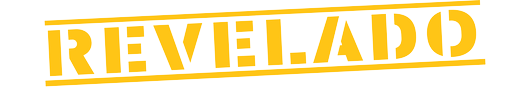
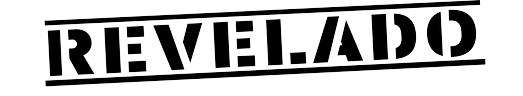
Add files via upload

Changed region(s): [[0.0612, 0.0, 0.9484, 0.9062]]

diff --git a/index.html b/index.html
@@ -17,9 +17,9 @@
     
     <style type="text/css">
       header {
-        color: white;
+        color: black;
         background-image: url("assets/img/bg.jpeg");
-        background-color: rgba(0, 0, 0, 0.6);
+        background-color: rgba(0, 0, 0, 0);
         background-position: center;
         background-size: cover;
         background-attachment: fixed;
@@ -37,19 +37,26 @@
       t.src=v;s=b.getElementsByTagName(e)[0];
       s.parentNode.insertBefore(t,s)}(window, document,'script',
       'https://connect.facebook.net/en_US/fbevents.js');
-      fbq('init', '638228847268637');
-      fbq('init', '1221934508338250');
+      fbq('init', '526414415897813');
       fbq('track', 'PageView');
     </script>
     <noscript><img height="1" width="1" style="display:none"
-      src="https://www.facebook.com/tr?id=638228847268637&ev=PageView&noscript=1"
-      src="https://www.facebook.com/tr?id=1221934508338250&ev=PageView&noscript=1"
+      src="https://www.facebook.com/tr?id=526414415897813&ev=PageView&noscript=1"
     /></noscript>
     <!-- End Meta Pixel Code -->
     
   </head>
   <body>
-    
+    <style>
+      .pessoinhas {
+        padding: 8px;
+        color: #183940;
+        background-color: #d2d904;
+      }
+      </style>
+      <div class="pessoinhas">
+<center> <span style=""><b>Recomendado a mulheres com mais de 30 anos que estão <u>com mais de 5kg acima do peso</u>!</b></center></span>
+</div>
     <header class="py-4">
       <div class="container">
         <div class="row justify-content-center">
@@ -58,7 +65,7 @@
             <img class="img-fluid" src="./assets/img/revelado.png">
 
             <!-- Headline -->
-            <h3 class="my-4"><b> <span style="color: #FFC516;">SEGREDO</span> PARA SECAR A BANHA NAS PRIMEIRAS 2 SEMANAS</b></h3>
+           <h3 class="my-4"><b> <span style="color: #FF1616;">VITAMINA OCULTA</span> QUE PERMITE MULHERES COMUNS PERDEREM ATÉ 15KG EM 21 DIAS</b></h3>
 
             <!-- VSL -->
             <script type="text/javascript" id="scr_626030fcb20f2800085e6014">var s=document.createElement("script");s.src="https://cdn.converteai.net/1812ece4-6f0d-4a9b-bb29-f0974ded221f/players/626030fcb20f2800085e6014/player.js",s.async=!0,document.head.appendChild(s);</script>
@@ -125,7 +132,7 @@
                       </td>
                     </tr>
                     <tr>
-                      <td class="fb-comments-comment-text">Ele também me ajudou perdi 22 kls obrigado, e ajuda até hoje com essas receitas deliciosas</td>
+                      <td class="fb-comments-comment-text">Ele também me ajudou perdi 22kg obrigado, e ajuda até hoje com essas receitas deliciosas</td>
                     </tr>
                     <tr>
                       <td class="fb-comments-comment-actions">
@@ -154,7 +161,7 @@
                       </td>
                     </tr>
                     <tr>
-                      <td class="fb-comments-comment-text">Esse vídeo mudou minha vida, já são 20 kls a menos em 4 meses ,agradecida</td>
+                      <td class="fb-comments-comment-text">Esse vídeo mudou minha vida, já são 20kg a menos em 4 meses ,agradecida</td>
                     </tr>
                     <tr>
                       <td class="fb-comments-comment-actions">
@@ -183,7 +190,7 @@
                       </td>
                     </tr>
                     <tr>
-                      <td class="fb-comments-comment-text">Tomei essa vitamina durante 1 mês, perdir 5 kls, e me sentia bem melhor, faz um ano, agora vou voltar a tomar novamente.</td>
+                      <td class="fb-comments-comment-text">Tomei essa vitamina durante 1 mês, perdir 5kg, e me sentia bem melhor, faz um ano, agora vou voltar a tomar novamente.</td>
                     </tr>
                     <tr>
                       <td class="fb-comments-comment-actions">
@@ -212,7 +219,7 @@
                       </td>
                     </tr>
                     <tr>
-                      <td class="fb-comments-comment-text">Estou feliz, a 7 meses atrás eu estava com 78 kls e hoje estou com 54 kls até postei a respeito no meu perfil aqui no face o antes e depois 😘😘😘</td>
+                      <td class="fb-comments-comment-text">Estou feliz, a 7 meses atrás eu estava com 78kg e hoje estou com 54kg até postei a respeito no meu perfil aqui no face o antes e depois 😘😘😘</td>
                     </tr>
                     <tr>
                       <td class="fb-comments-comment-actions">
@@ -303,7 +310,7 @@
                         </td>
                       </tr>
                       <tr>
-                        <td class="fb-comments-comment-text">Maravilhosa melhor de todas fez 7dias tomando e 7 klos já conseguir eliminar tô muito feliz obrigado 😍😍😍</td>
+                        <td class="fb-comments-comment-text">Maravilhosa melhor de todas fez 7dias tomando e 7kg já conseguir eliminar tô muito feliz obrigado 😍😍😍</td>
                       </tr>
                       <tr>
                         <td class="fb-comments-comment-actions">
@@ -333,7 +340,7 @@
                         </td>
                       </tr>
                       <tr>
-                        <td class="fb-comments-comment-text">Eu já estou tomando, já eliminei 7 kls, já fez muita diferença, minhas roupas estavam todas apertadas,  ágora já estão largas... 🙏🙏🙏🙏🙏🙏</td>
+                        <td class="fb-comments-comment-text">Eu já estou tomando, já eliminei 7kg, já fez muita diferença, minhas roupas estavam todas apertadas,  ágora já estão largas... 🙏🙏🙏🙏🙏🙏</td>
                       </tr>
                       <tr>
                         <td class="fb-comments-comment-actions">
@@ -422,7 +429,7 @@
                         </td>
                       </tr>
                       <tr>
-                        <td class="fb-comments-comment-text">Meu irmão perdeu 6 kl em 15 dias... vou começar hj rsrs</td>
+                        <td class="fb-comments-comment-text">Meu irmão perdeu 6kg em 15 dias... vou começar hj rsrs</td>
                       </tr>
                       <tr>
                         <td class="fb-comments-comment-actions">
@@ -443,8 +450,8 @@
             <!-- Botão 2 -->
             <div id="cta2" class="mt-4 d-none">
               <a href="https://pay.kiwify.com.br/YgXahOF" class="a-btn" style="text-decoration: none;">
-                <span class="span-btn">QUERO PARTICIPAR DO PROGRAMA!</span>
-                <span class="span-btn2">(atenção: vagas limitadas)</span>
+                <span class="span-btn">QUERO PARTICIPAR DO PROGRAMA AGORA!</span>
+                <span class="span-btn2">(atenção: apenas 100 vagas limitadas)</span>
               </a>
             </div>
           </div>
